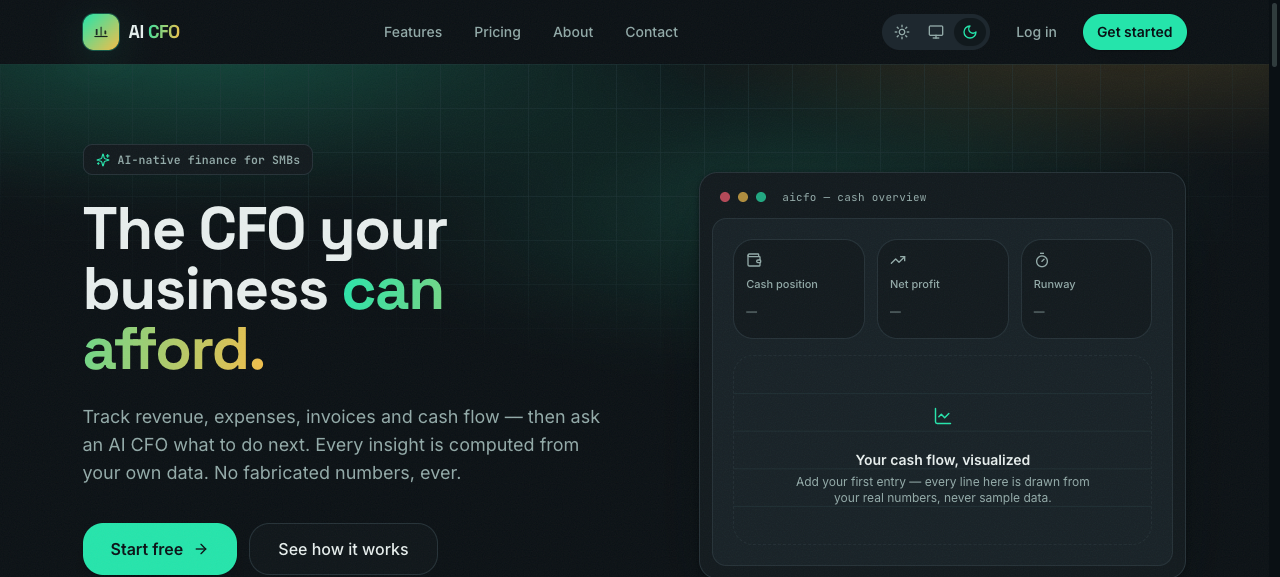
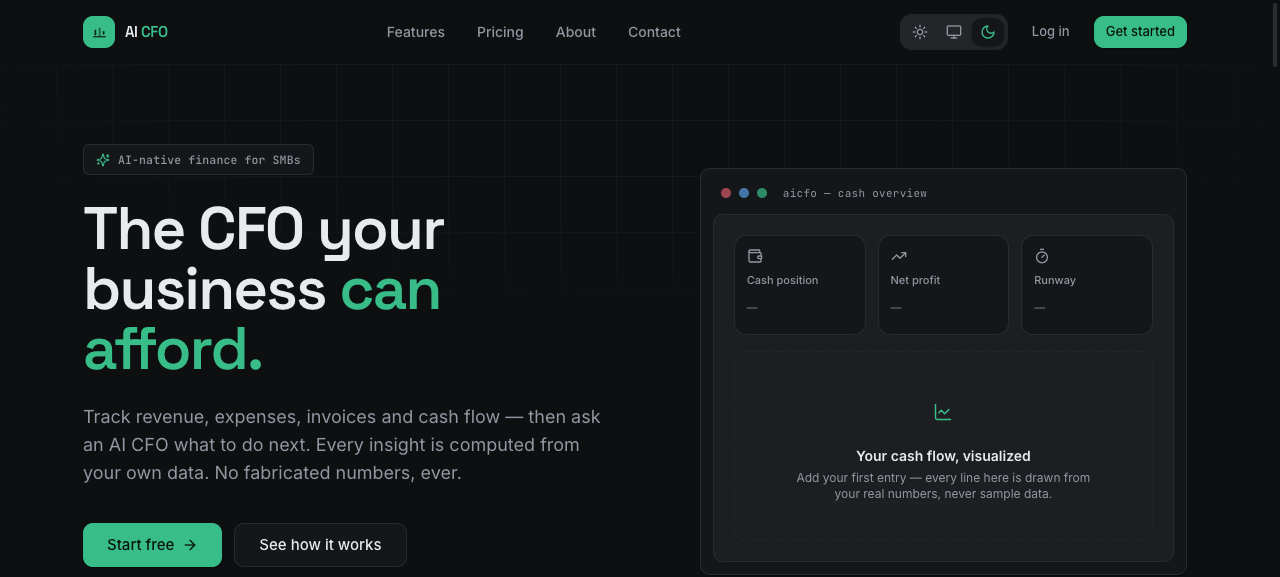
docs: refresh screenshots for the redesign; trim stale app shots
Replace the landing hero with the redesigned dark landing and add the sign-in
screen; remove the pre-redesign dashboard/cash-flow/reports/assistant shots
that no longer reflect the current design language.

diff --git a/README.md b/README.md
@@ -13,7 +13,7 @@ forecasts — with an AI assistant that analyzes **only your own data**. No fake
 analytics, no hardcoded metrics, no placeholder business data. Every figure is
 computed from what you enter; empty modules show elegant empty states.
 
-![AI CFO dashboard](./docs/screenshots/02-dashboard.png)
+![AI CFO landing](./docs/screenshots/01-landing.png)
 
 ---
 
@@ -56,16 +56,13 @@ and API can be added without UI changes. See
 
 ## 📸 Screenshots
 
-> All figures below are computed from sample data entered into the app — nothing
-> is hardcoded.
+> Everything the app shows is computed from data you enter — nothing is
+> hardcoded. Run it locally or open the live demo to explore the dashboard,
+> cash flow, reports and AI assistant.
 
-| Cash flow & runway | Reports (P&L + breakdowns) |
+| Landing | Sign in |
 | --- | --- |
-| ![Cash flow](./docs/screenshots/03-cash-flow.png) | ![Reports](./docs/screenshots/04-reports.png) |
-
-| AI assistant (grounded in your data) | Landing |
-| --- | --- |
-| ![AI assistant](./docs/screenshots/05-assistant.png) | ![Landing](./docs/screenshots/01-landing.png) |
+| ![Landing](./docs/screenshots/01-landing.png) | ![Sign in](./docs/screenshots/06-login.png) |
 
 ## 🧱 Tech Stack
 
